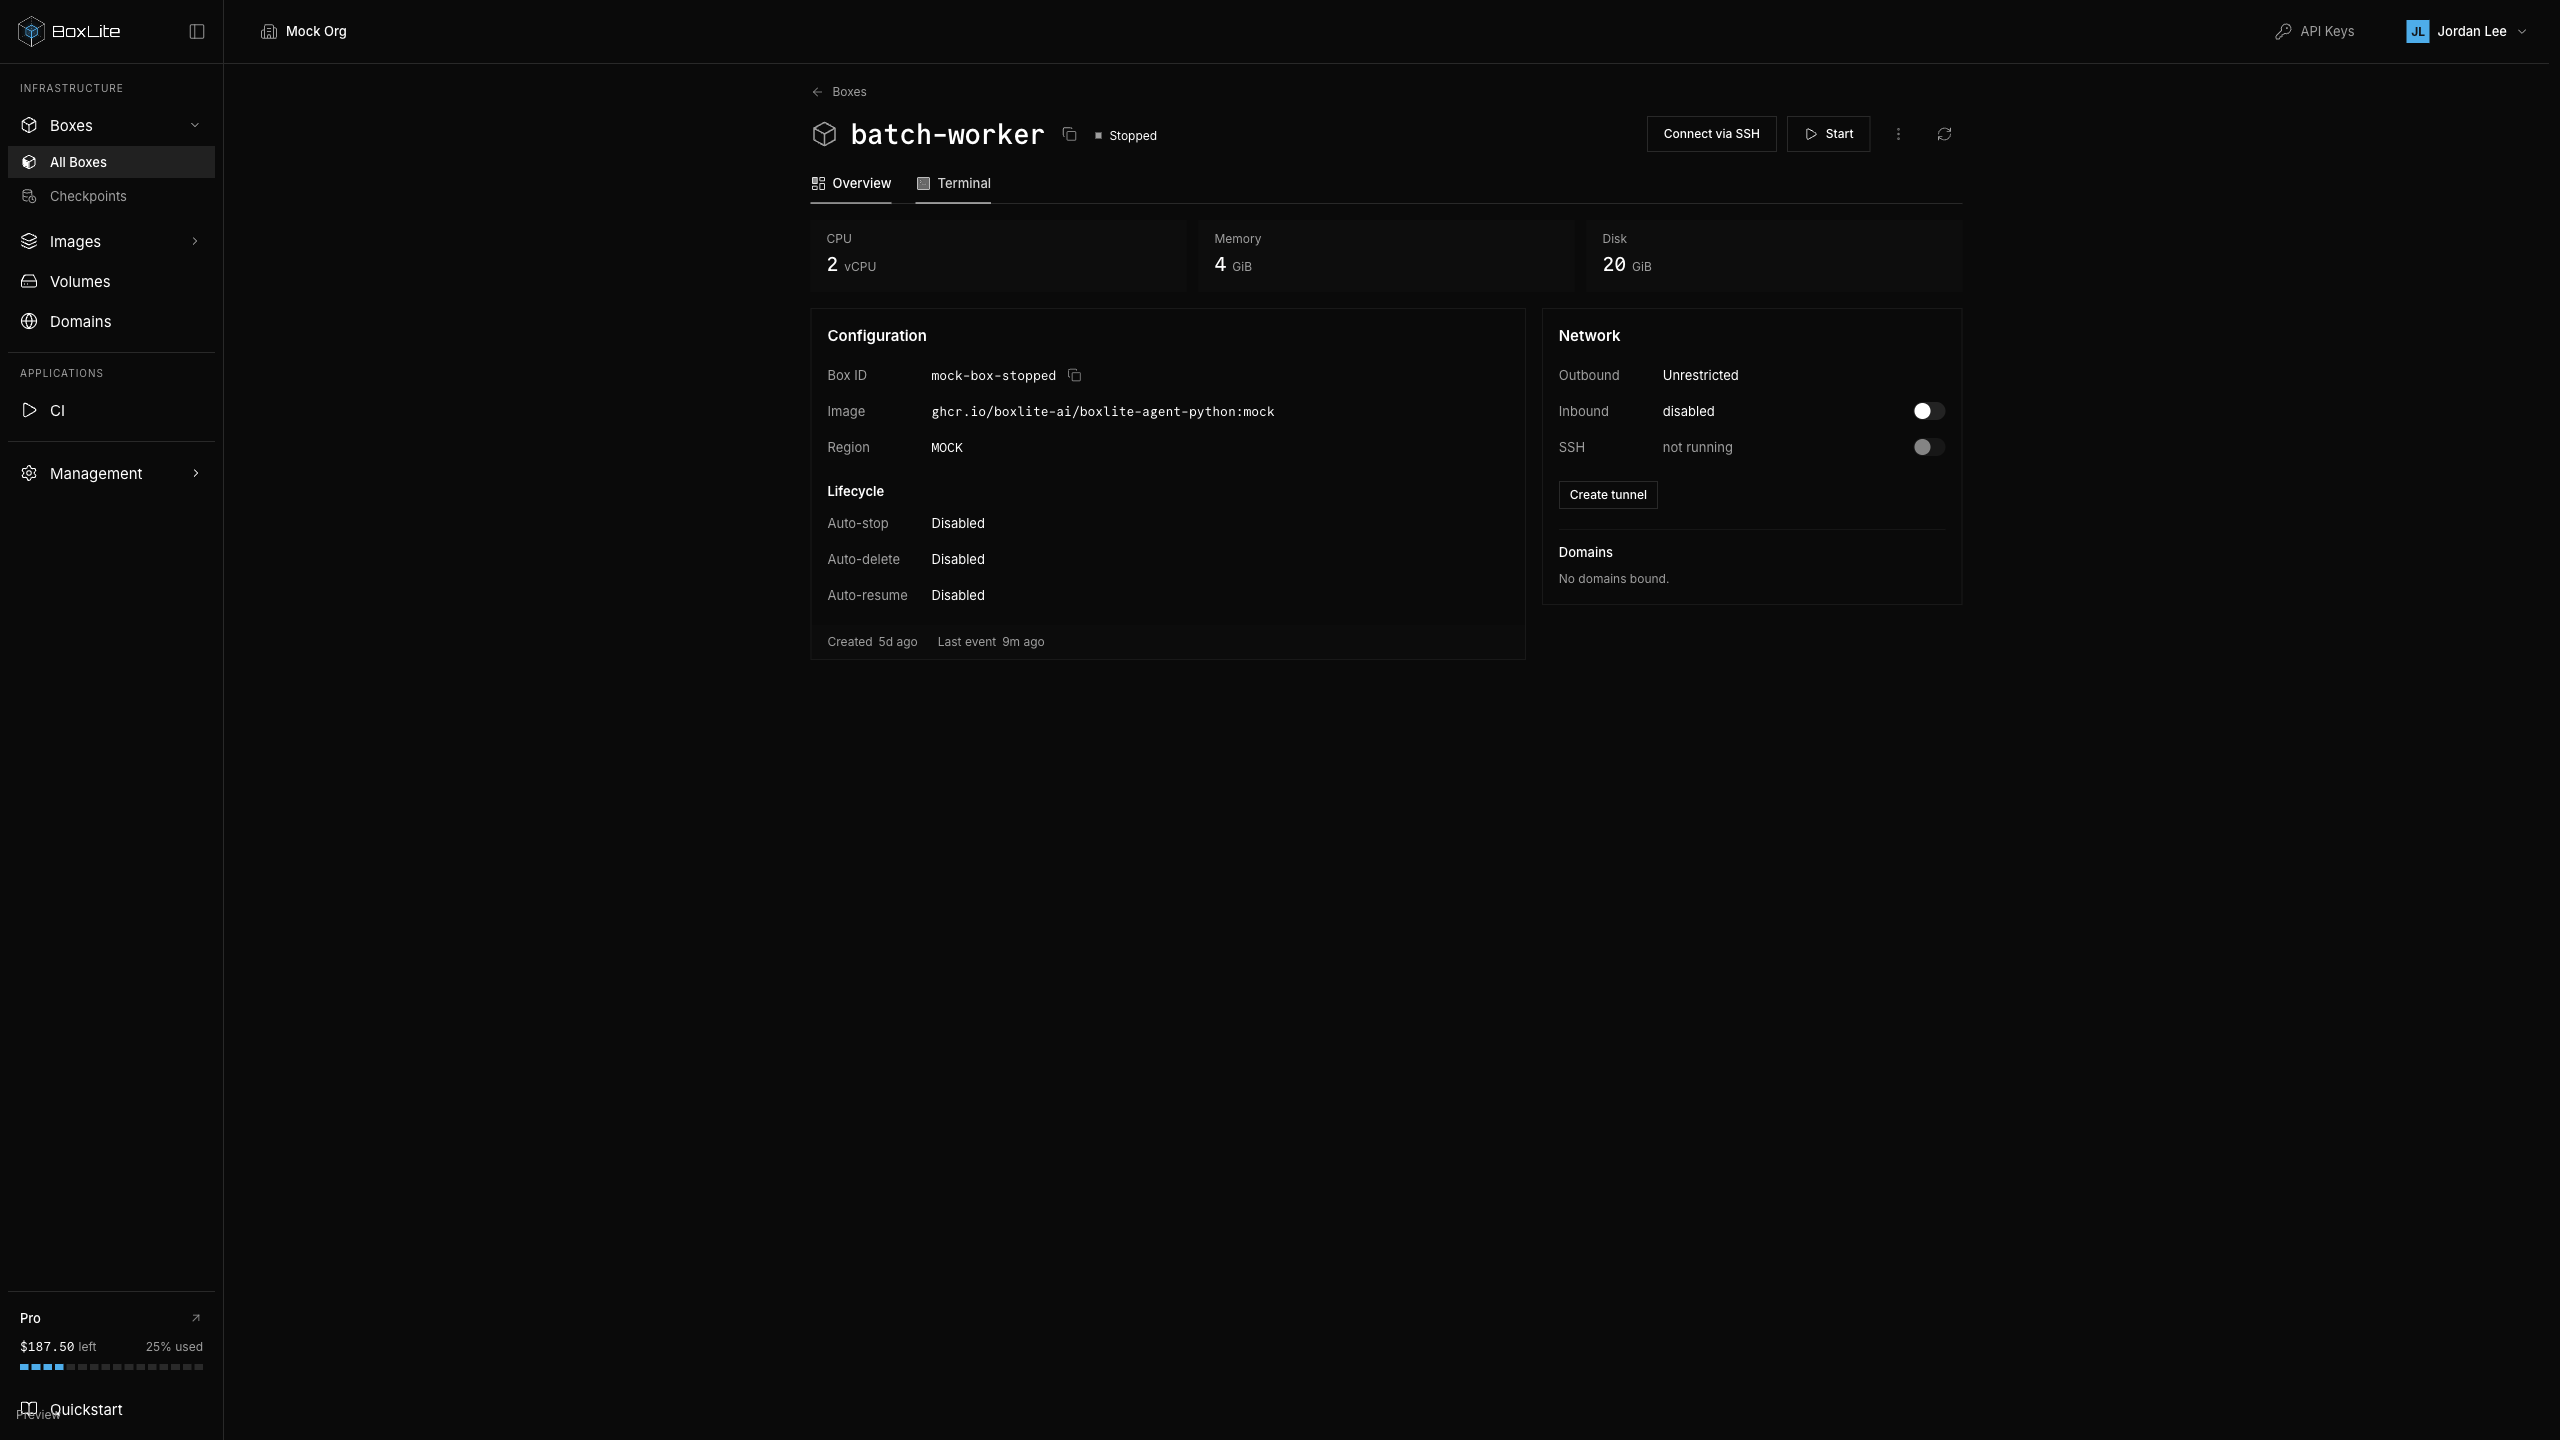
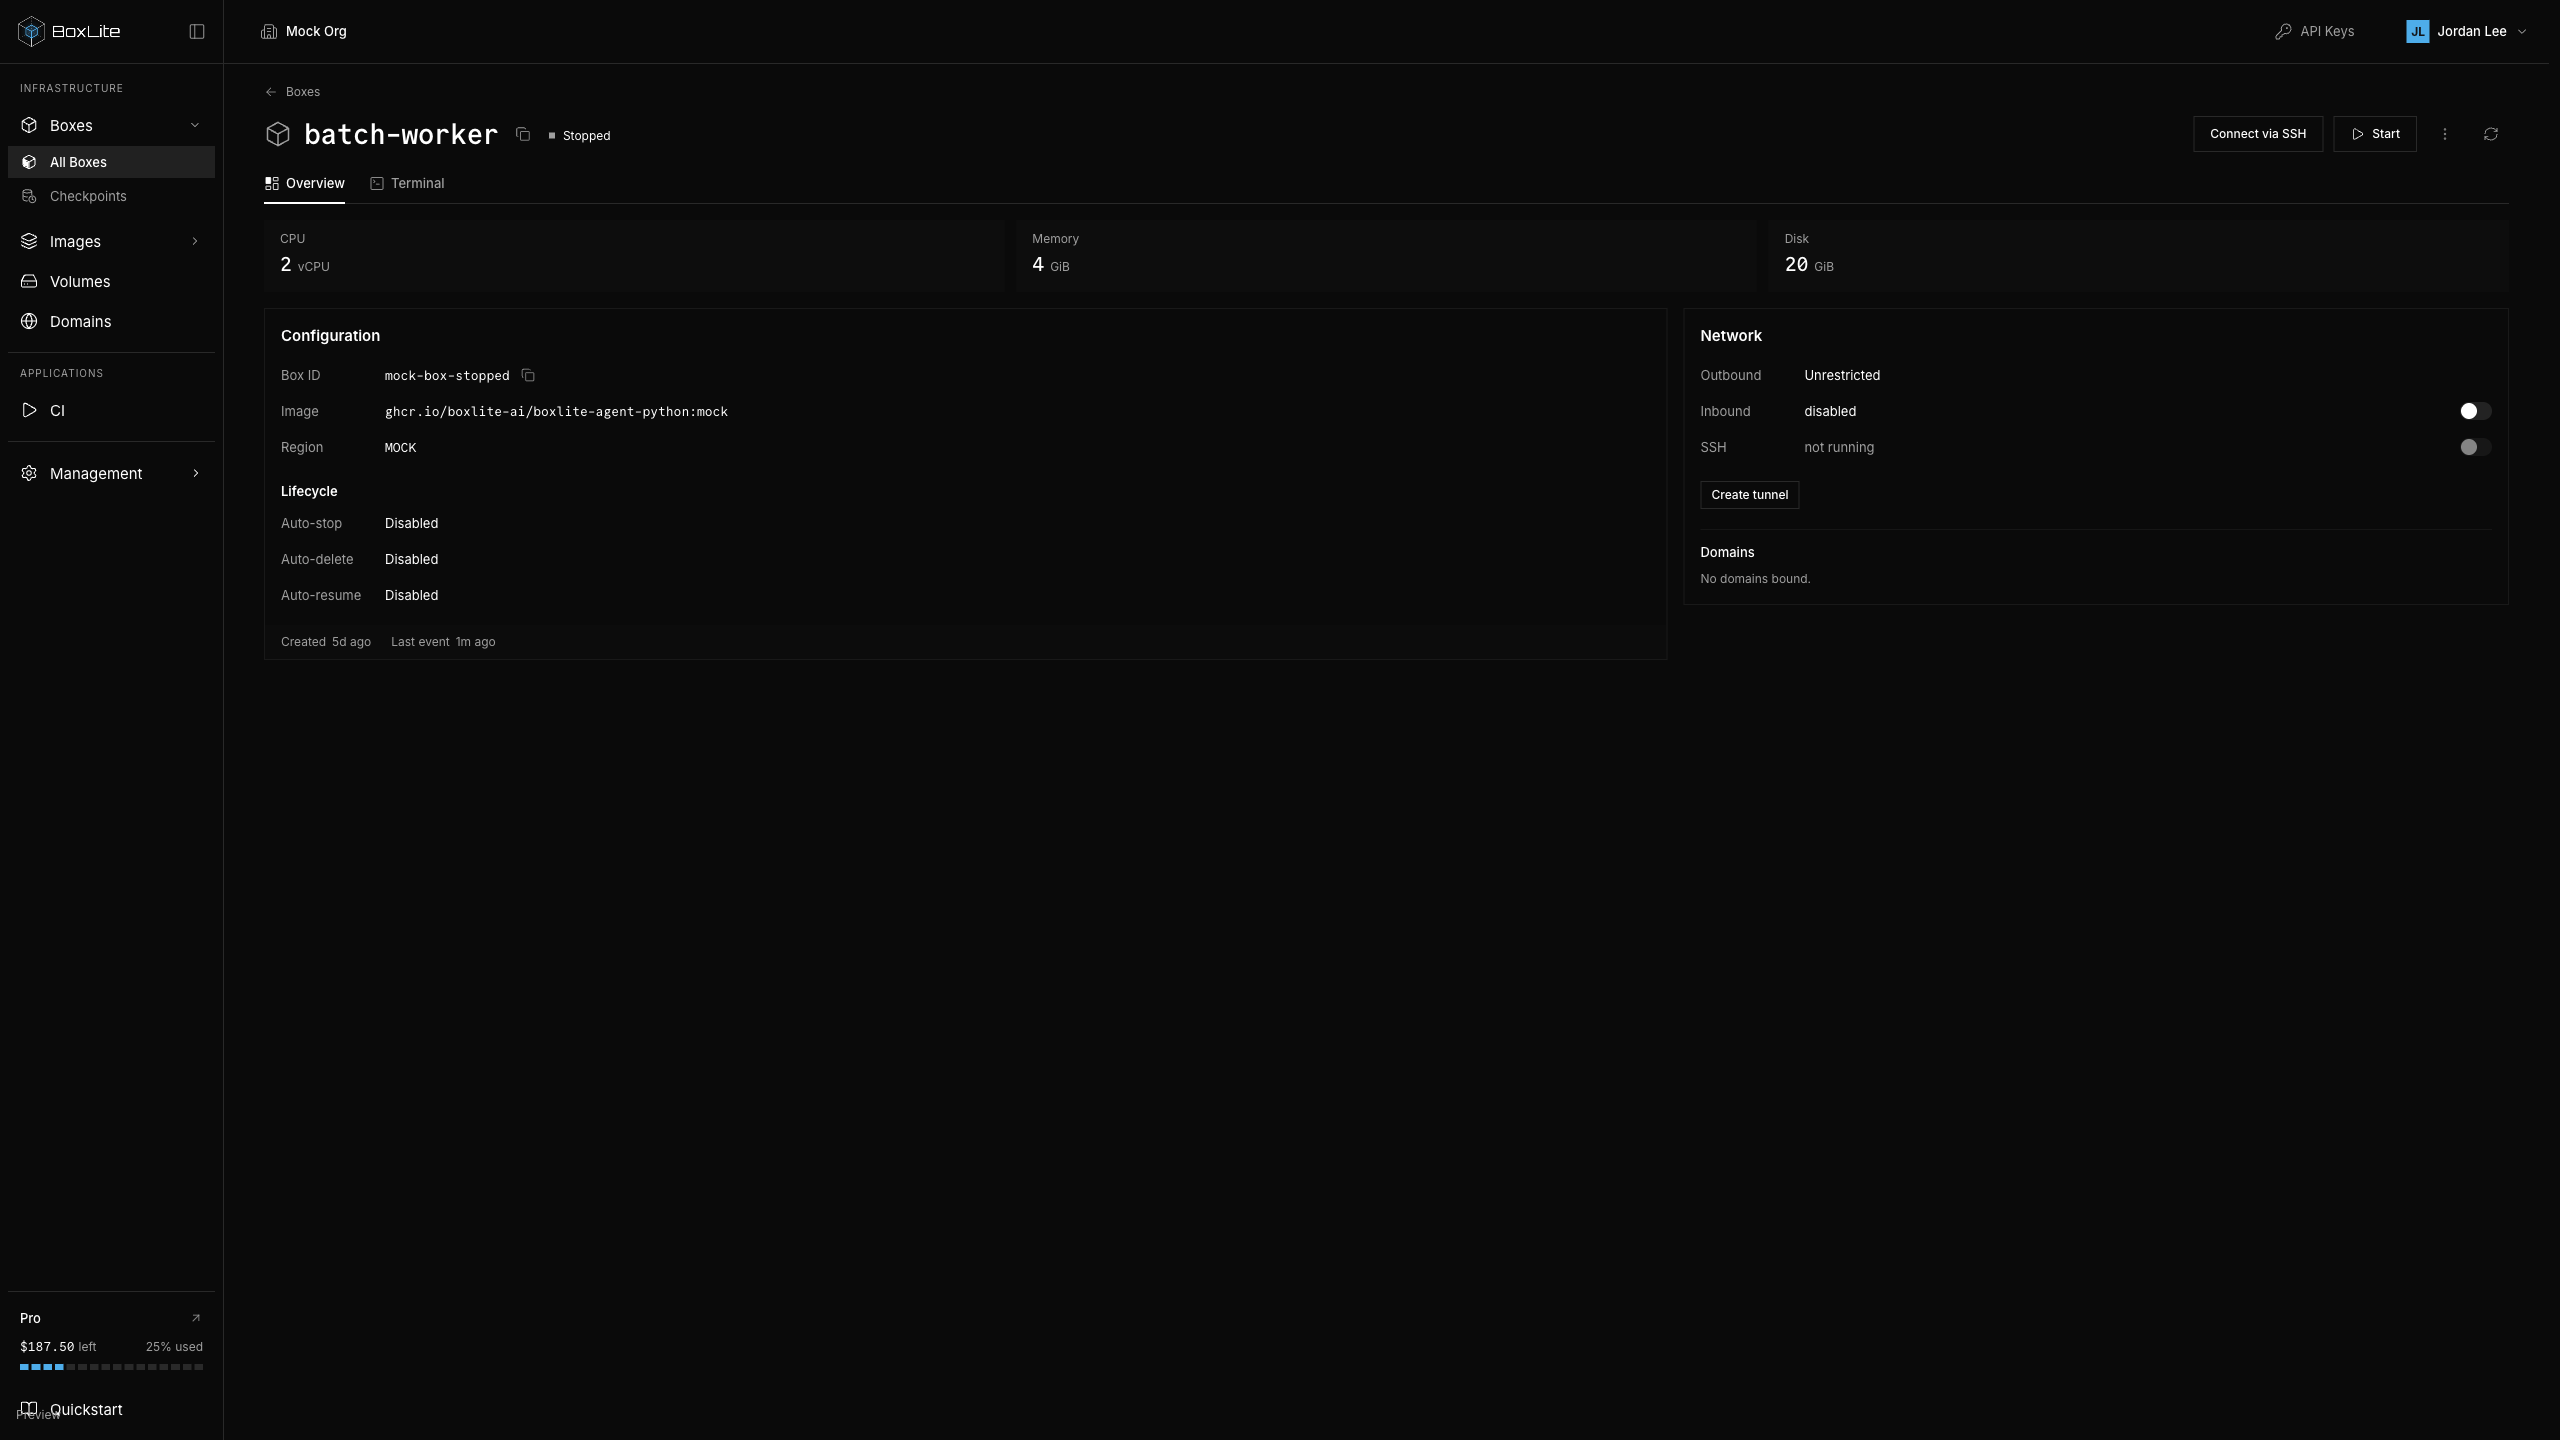
fix(console): keep box detail boundaries stable across tabs

diff --git a/apps/dashboard/src/components/boxes/BoxDetails.tsx b/apps/dashboard/src/components/boxes/BoxDetails.tsx
@@ -216,7 +216,6 @@ function BoxDetailsPage({ page }: { page: 'overview' | 'terminal' }) {
     <div
       className={cn(
         'page-container flex min-w-0 flex-col gap-3 pb-6 pt-4 font-sans text-body',
-        page === 'overview' && 'mx-auto max-w-[1232px]',
         page === 'terminal' && box && isStoppable(box)
           ? 'h-[var(--app-content-height,calc(100svh_-_60px))] min-h-[640px]'
           : 'min-h-[var(--app-content-height,calc(100svh_-_60px))]',

diff --git a/apps/dashboard/src/components/boxes/BoxTerminalSession.tsx b/apps/dashboard/src/components/boxes/BoxTerminalSession.tsx
@@ -31,7 +31,7 @@ export function BoxTerminalSession({
   if (!running) {
     const waitingForStart = starting || box.state === BoxState.STARTING
     return (
-      <Empty className="flex-none border-0 bg-transparent py-12" aria-busy={waitingForStart}>
+      <Empty className="flex-none border border-solid border-border/60 bg-background py-12" aria-busy={waitingForStart}>
         <EmptyHeader>
           <EmptyMedia>
             {waitingForStart ? (

diff --git a/apps/dashboard/README.md b/apps/dashboard/README.md
@@ -1545,12 +1545,14 @@ The choice step also offers “Explore console — no card required”, completi
 
 ### Box detail workspace sizing
 
-Overview centers a bounded reading column on wide desktops. Terminal uses the
-available workspace width; only a running Box reserves a viewport-height shell.
+Overview and Terminal share the available workspace width and page gutters, so
+the return link, title, actions and tabs stay anchored when switching views.
+Overview uses a responsive two-column grid with adjacent field labels and values.
+Only a running Box reserves a viewport-height terminal shell.
 The existing terminal ResizeObserver refits rows and columns without replacing
 the session, including when navigation is expanded or the viewport changes.
 
-A stopped Box shows compact terminal guidance with Start Box beside it, replacing
+A stopped Box shows a compact bordered panel with guidance and Start Box, replacing
 the header Start in this view. The action uses the existing permission check and
 start mutation. Pending requests disable it, starting waits for the Box state, and
 a failed start retains a local notice alongside the existing API error notification.

diff --git a/apps/dashboard/review-assets/bui-2035/README.md b/apps/dashboard/review-assets/bui-2035/README.md
@@ -3,7 +3,7 @@
 Synthetic mock fixtures captured at 2560 × 1440 (wide) and 390 × 900
 (narrow). These images verify layout, not guest terminal connectivity.
 
-- [Centered Overview](overview-wide.png)
+- [Responsive Overview](overview-wide.png)
 - [Stopped Terminal with Start Box](terminal-stopped-wide.png)
 - [Narrow Terminal](terminal-narrow.png)
 
